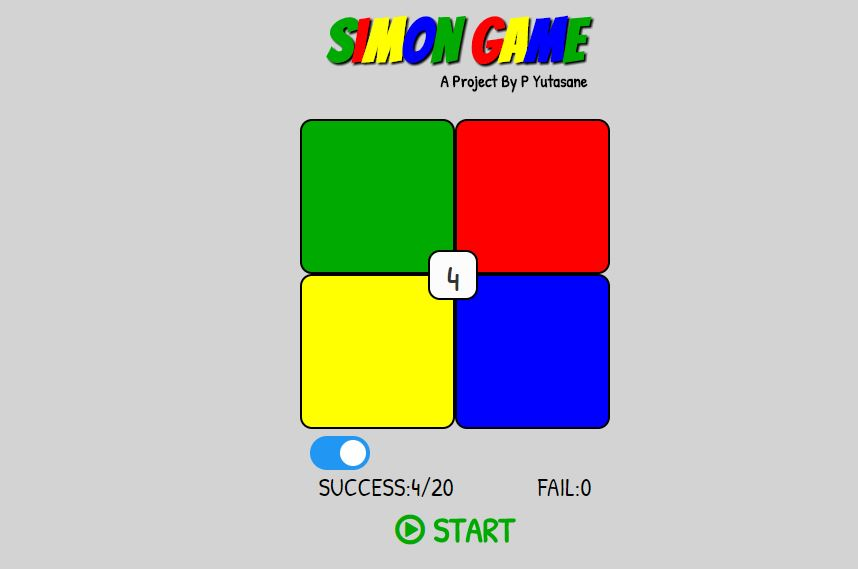
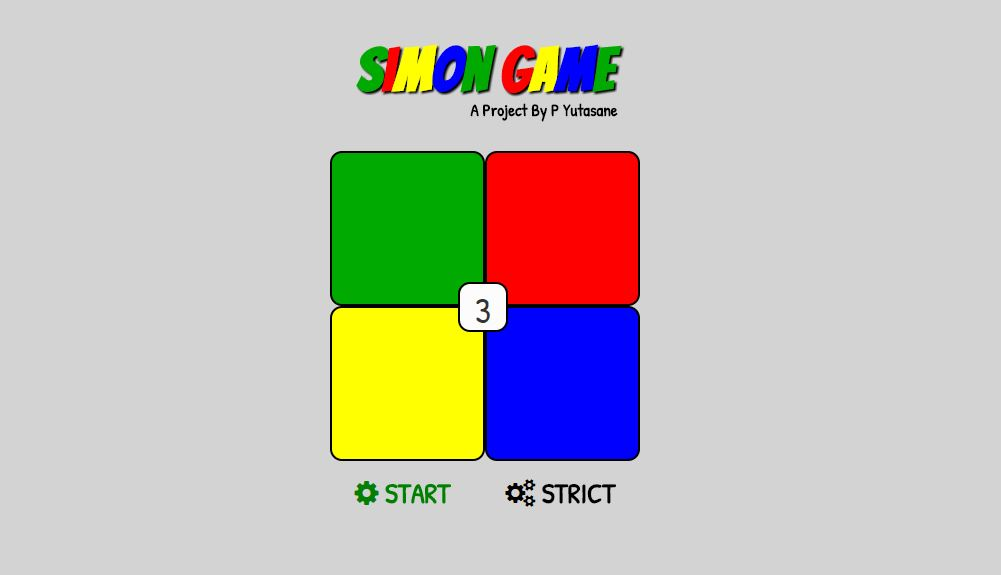
Final Functional App

Changed region(s): [[0.303, 0.0299, 0.7273, 0.9561]]

diff --git a/css/simon-game.css b/css/simon-game.css
@@ -173,6 +173,7 @@ h1 {
     font-weight: bold;
     font-family: 'Patrick Hand', cursive;
     display: inline-block;
+    margin-top: -10px;
 }
 
 .start:hover {
@@ -182,6 +183,7 @@ h1 {
     font-weight: bold;
     font-family: 'Patrick Hand', cursive;
     display: inline-block;
+    margin-top: -10px;
 }
 
 .strict {
@@ -192,6 +194,7 @@ h1 {
     font-family: 'Patrick Hand', cursive;
     display: inline-block;
     margin-left: 20px;
+    margin-top: -10px;
 }
 
 .strict:hover {
@@ -201,13 +204,15 @@ h1 {
     font-weight: bold;
     font-family: 'Patrick Hand', cursive;
     display: inline-block;
+    margin-top: -10px;
+    margin-left: 20px;
+
 }
 
 .controls {
-    margin-top: 5px;
+    margin-top: 15px;
     margin-bottom: -15px;
 }
-
 
 /*=====SIMON FONT COLOUR=====*/
 

diff --git a/js/simon-game.js b/js/simon-game.js
@@ -1,6 +1,6 @@
 $(document).ready(function () {
 
-  init();
+  playSimon();
 
 });
 
@@ -28,7 +28,7 @@ const startButton = document.getElementById('start');
 const strictButton = document.getElementById('strict');
 
 
-const init = () => {
+const playSimon = () => {
   const stopDisplay = () => {
     green.style.background = '#0a0';
     red.style.background = 'red';
@@ -98,6 +98,7 @@ const init = () => {
           checkIds();
         }, 1000);
       } else if (typeof array[20] !== 'undefined') {
+        alert('winner!');
         pads.unbind();
       } else if (typeof array[j + 1] === 'undefined') {
         pads.unbind();
